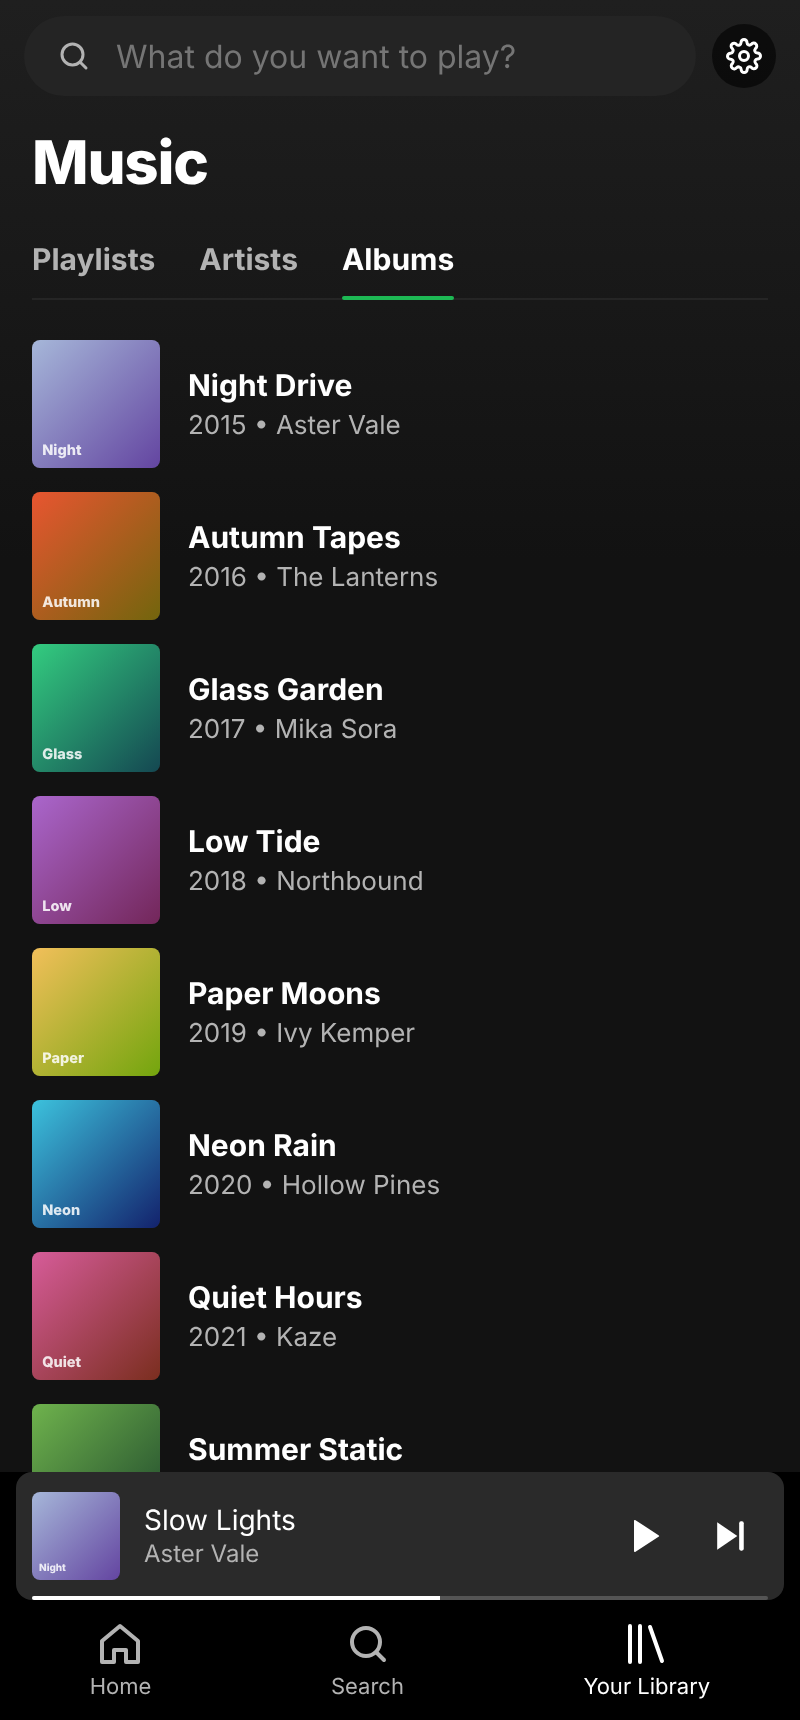
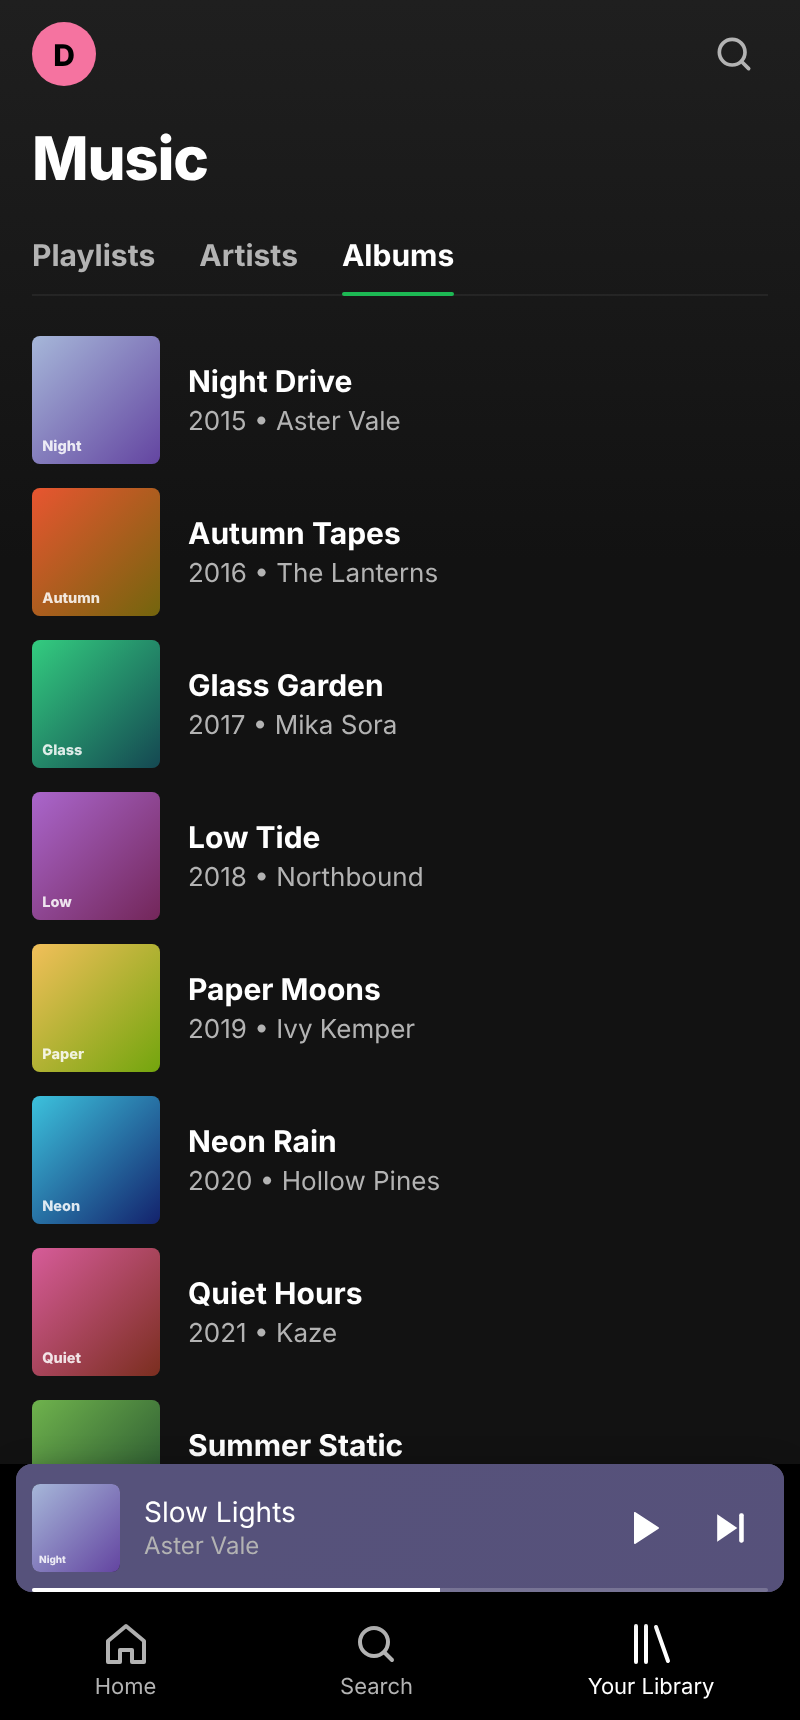
Cleaner, more comfortable phone layout; Search browse tiles
Phone: no search field outside Search (account button on Home/Library, back button and
the page title elsewhere), two-line Home shortcuts, bigger shelf covers, press feedback,
mini player tinted with the cover, tab bar fade, icon-only playlist sort, a quieter
current-lyric line and Settings controls that wrap under their labels. Search opens with
"Browse your library" tiles on all layouts; Language is a regular settings row.

Claude-Session: https://claude.ai/code/session_012YFM9VBkWfKEaaza8uU8t3

diff --git a/ui/src/styles.css b/ui/src/styles.css
@@ -712,3 +712,69 @@ body.resizing, body.resizing * { cursor: col-resize !important; user-select: non
 .lyrics-panel .lp-body { flex: 1; min-height: 0; }
 .lyrics-panel .lyrics { padding: 24px 16px 40%; mask-image: linear-gradient(transparent, #000 8%, #000 85%, transparent); }
 .lyrics-panel .lyrics .line { font-size: 1.25rem; margin-bottom: 14px; }
+
+/* ---- Search: "Browse your library" tiles ------------------------------------------------------ */
+.browse-tiles { display: grid; grid-template-columns: repeat(auto-fill, minmax(180px, 1fr)); gap: 16px; margin-top: 8px; }
+.browse-tile { position: relative; aspect-ratio: 1.7; border-radius: 8px; overflow: hidden; padding: 14px 16px; display: flex; align-items: flex-start; text-align: left; color: #fff; font-weight: 800; font-size: 1.125rem; line-height: 1.2; transition: transform 0.15s ease-out, filter 0.15s; }
+.browse-tile:hover, .browse-tile:focus-visible { transform: scale(1.02); filter: brightness(1.08); }
+.bt-icon { position: absolute; right: -4px; bottom: -6px; transform: rotate(22deg); opacity: 0.9; filter: drop-shadow(0 4px 10px #0006); }
+.bt-icon svg { width: 64px; height: 64px; }
+
+/* ---- phone polish (Spotify mobile proportions) -------------------------------------------------- */
+@media (max-width: 760px) {
+  button, [role="button"], a { -webkit-tap-highlight-color: transparent; }
+
+  /* Top bar: account button or back, the page title once scrolled; no search field outside Search. */
+  .topbar.phone-bar { gap: 12px; padding: 10px 16px; min-height: 52px; }
+  .avatar-btn { width: 32px; height: 32px; border-radius: 50%; flex: none; display: grid; place-items: center; background: #f573a0; color: #000; font-weight: 800; font-size: 0.9375rem; }
+  .phone-title { min-width: 0; font-weight: 800; font-size: 1rem; white-space: nowrap; overflow: hidden; text-overflow: ellipsis; animation: om-fade 0.15s ease-out; }
+  .phone-bar .round-btn { width: 34px; height: 34px; background: #0008; }
+  /* Search keeps only its field: Settings is the account button on Home and Your Library. */
+  .topbar:not(.phone-bar) .round-btn { display: none; }
+  .browse-tiles { margin-bottom: 8px; }
+  .page > h2 { margin-top: 24px; }
+
+  /* Home: two-line shortcut titles instead of "Road t…", bigger shelf cards (about 2.3 on screen). */
+  .greeting { font-size: 1.5rem; margin: 4px 0 14px; }
+  .shortcuts { gap: 8px; }
+  .shortcut { height: 56px; border-radius: 6px; gap: 10px; background: #ffffff17; }
+  .shortcut .art { width: 56px; height: 56px; }
+  .shortcut .name { white-space: normal; display: -webkit-box; -webkit-line-clamp: 2; -webkit-box-orient: vertical; font-size: 0.8125rem; line-height: 1.25; padding-right: 8px; }
+  .shelf { margin-top: 20px; }
+  .shelf-row { grid-auto-columns: min(40vw, 168px); margin: 0 -8px; }
+  .card { padding: 8px; }
+  .card-title { font-size: 0.875rem; margin-bottom: 2px; }
+  .card-sub { font-size: 0.75rem; }
+
+  /* Touch feedback in place of hover. */
+  .card, .shortcut, .lib-row, .tl-row, .browse-tile, .ep-row { transition: transform 0.12s ease-out, opacity 0.12s; }
+  .card:active, .shortcut:active, .lib-row:active, .tl-row:active, .browse-tile:active { transform: scale(0.97); opacity: 0.85; }
+  .card:hover, .shortcut:hover { background: transparent; }
+  .shortcut:hover { background: #ffffff17; }
+
+  /* Mini player tinted with the cover's colour, softer bar behind the tabs. */
+  .playerbar { isolation: isolate; overflow: hidden; background: #2a2a2a; box-shadow: 0 6px 18px #0007; }
+  .playerbar::before { content: ""; position: absolute; inset: 0; z-index: -2; background: var(--pb-wash, none) center / 4000% no-repeat; }
+  .playerbar::after { content: ""; position: absolute; inset: 0; z-index: -1; background: #00000059; }
+  .mobile-tabs { padding-top: 10px; background: linear-gradient(#0000, #000000eb 40%); }
+  .mobile-tabs button { min-width: 72px; }
+
+  /* Lists: comfortable rows, quieter overflow buttons. */
+  .tl-row { min-height: 56px; }
+  .tl-dur .more { opacity: 0.7; }
+
+  /* Playlist actions: the sort button is just its icon here. */
+  .sort-btn > span { display: none; }
+
+  /* Song screen: the current lyric line is a hint, not a second title. */
+  .pp-line { margin: 18px 0 4px; font-size: 0.875rem; font-weight: 600; color: #ffffffb3; }
+
+  /* Settings: controls drop under their label instead of squeezing it. */
+  .setting { flex-wrap: wrap; gap: 8px 16px; }
+  .setting > .grow { flex: 1 1 220px; }
+  .settings section { margin: 24px 0; }
+
+  .browse-tiles { grid-template-columns: 1fr 1fr; gap: 12px; }
+  .browse-tile { font-size: 1rem; aspect-ratio: 1.75; }
+  .bt-icon svg { width: 52px; height: 52px; }
+}

diff --git a/ui/src/pages/Browse.tsx b/ui/src/pages/Browse.tsx
@@ -370,12 +370,42 @@ export function Search({ q }: { q: string }) {
   );
 }
 
+/** Search with nothing typed: Spotify's colourful "Browse all" tiles, here for your library. */
 function BrowseEmpty() {
   const t = useT();
+  const caps = useApp((s) => s.info?.capabilities);
+  const pls = useApp((s) => s.library?.playlists);
+  const liked = pls?.find((p) => /^yt:(VL)?LM$/.test(p.id));
+  const tiles: { label: string; color: string; go: () => void; icon: React.ReactNode }[] = [
+    ...(liked ? [{ label: t("likedSongs"), color: "#5038a0", go: () => navigate({ name: "playlist", id: liked.id }), icon: <I.IHeartFill size={36} /> }] : []),
+    { label: t("recentlyPlayed"), color: "#1e3264", go: () => navigate({ name: "library", tab: "recent" }), icon: <I.IClock size={36} /> },
+    { label: t("playlists"), color: "#8d67ab", go: () => navigate({ name: "library", tab: "playlists" }), icon: <I.IQueue size={36} /> },
+    { label: t("albums"), color: "#e8115b", go: () => navigate({ name: "library", tab: "albums" }), icon: <I.IMusic size={36} /> },
+    { label: t("artists"), color: "#148a08", go: () => navigate({ name: "library", tab: "artists" }), icon: <I.IMic size={36} /> },
+    ...(caps?.podcasts
+      ? [
+          { label: t("podcasts"), color: "#006450", go: () => navigate({ name: "library", tab: "podcasts" }), icon: <I.IBookmark size={36} /> },
+          { label: t("yourEpisodes"), color: "#477d95", go: () => navigate({ name: "episodes" }), icon: <I.IPlay size={36} /> },
+        ]
+      : []),
+    { label: t("localFiles"), color: "#ba5d07", go: () => navigate({ name: "local" }), icon: <I.IFolder size={36} /> },
+    ...(caps?.downloads ? [{ label: t("downloads"), color: "#27856a", go: () => navigate({ name: "downloads" }), icon: <I.IDownload size={36} /> }] : []),
+  ];
   return (
     <div className="page">
       <h1>{t("search")}</h1>
       <p className="muted">{t("searchHint")}</p>
+      <h2>{t("browseAll")}</h2>
+      <div className="browse-tiles">
+        {tiles.map((x) => (
+          <button key={x.label} className="browse-tile" style={{ background: x.color }} onClick={x.go}>
+            <span>{x.label}</span>
+            <span className="bt-icon" aria-hidden="true">
+              {x.icon}
+            </span>
+          </button>
+        ))}
+      </div>
     </div>
   );
 }

diff --git a/ui/src/components/TopBar.tsx b/ui/src/components/TopBar.tsx
@@ -3,6 +3,7 @@ import { useT } from "../i18n";
 import { openProfilePicker, useApp } from "../store/app";
 import { back, forward, navigate, useUi } from "../store/ui";
 import * as I from "./Icons";
+import { usePhoneLayout } from "./common";
 import { cls } from "../util";
 
 export function TopBar() {
@@ -23,6 +24,35 @@ export function TopBar() {
   const scrolled = useUi((s) => s.scrolled);
   const pageTitle = useUi((s) => s.pageTitle);
   const showTitle = scrolled === 2 && pageTitle && cur.name !== "search";
+  const phone = usePhoneLayout();
+
+  // Phone (Spotify mobile): no search field outside Search. Home and Your Library show the
+  // account button (opens Settings); other pages a back button and, once scrolled, their title.
+  if (phone && cur.name !== "search") {
+    const root = cur.name === "home" || cur.name === "library";
+    const initial = (auth?.account ?? "").trim().slice(0, 1).toUpperCase() || "♪";
+    return (
+      <header className={cls("topbar phone-bar", scrolled > 0 && "solid")}>
+        {root ? (
+          <button className="avatar-btn" aria-label={t("settings")} title={t("settings")} onClick={() => navigate({ name: "settings" })}>
+            {initial}
+          </button>
+        ) : (
+          <button className="round-btn" aria-label={t("back")} title={t("back")} disabled={pos === 0} onClick={back}>
+            <I.IBack size={18} />
+          </button>
+        )}
+        {showTitle && <span className="phone-title">{pageTitle.title}</span>}
+        <span className="grow" />
+        {!online && <span className="offline-pill" role="status">{t("offlineShort")}</span>}
+        {cur.name === "library" && (
+          <button className="icon-btn" aria-label={t("search")} title={t("search")} onClick={() => navigate({ name: "search" })}>
+            <I.ISearch size={22} />
+          </button>
+        )}
+      </header>
+    );
+  }
 
   return (
     <header className={cls("topbar", scrolled > 0 && "solid")}>

diff --git a/ui/src/pages/Manage.tsx b/ui/src/pages/Manage.tsx
@@ -317,15 +317,21 @@ export function SettingsPage() {
 
       <section>
         <h2>{t("language")}</h2>
-        <Select
-          label={t("language")}
-          value={s.language}
-          onChange={(v) => s.set({ language: v })}
-          options={[
-            { value: "en", label: "English" },
-            { value: "ja", label: "日本語" },
-          ]}
-        />
+        <div className="setting">
+          <div className="grow">
+            <div>{t("appLanguage")}</div>
+            <div className="muted small">{t("appLanguageHint")}</div>
+          </div>
+          <Select
+            label={t("language")}
+            value={s.language}
+            onChange={(v) => s.set({ language: v })}
+            options={[
+              { value: "en", label: "English" },
+              { value: "ja", label: "日本語" },
+            ]}
+          />
+        </div>
         <label className="setting">
           <div className="grow">
             <div>{t("japaneseDisplay")}</div>

diff --git a/ui/src/components/PlayerBar.tsx b/ui/src/components/PlayerBar.tsx
@@ -1,7 +1,7 @@
 import { useEffect, useRef, useState } from "react";
 import { listen } from "@tauri-apps/api/event";
 import { sleepSubmenu, trackMenu, useSleep } from "../actions";
-import { api, inTauri } from "../api";
+import { api, artUrl, inTauri } from "../api";
 import { useT } from "../i18n";
 import * as P from "../player/engine";
 import { usePlayer } from "../player/engine";
@@ -162,6 +162,8 @@ export function PlayerBar() {
     <footer
       className="playerbar"
       aria-label={t("nowPlaying")}
+      // Phone mini player: tinted with the cover's colour (a tiny cover stretched into a wash).
+      style={tr?.artwork ? ({ ["--pb-wash" as string]: `url("${artUrl(tr.artwork, 60)}")` } as React.CSSProperties) : undefined}
       // Phone: the whole mini player opens the song screen, except its own buttons.
       onClick={(e) => tr && isTouch() && !(e.target as HTMLElement).closest("button:not(.pb-art):not(.link), input") && useUi.setState({ fullscreen: true })}
     >

diff --git a/ui/src/i18n.ts b/ui/src/i18n.ts
@@ -350,6 +350,9 @@ const en = {
   offlineShort: "Offline",
   music: "Music",
   likedSongs: "Liked Songs",
+  browseAll: "Browse your library",
+  appLanguage: "App language",
+  appLanguageHint: "Menus and labels; translated lyrics and titles follow it too.",
   savedIn: "Saved in",
   done: "Done",
   youtubePlaylists: "Your YouTube playlists",
@@ -725,6 +728,9 @@ const ja: Record<Key, string> = {
   offlineShort: "オフライン",
   music: "音楽",
   likedSongs: "お気に入りの曲",
+  browseAll: "ライブラリを見る",
+  appLanguage: "表示言語",
+  appLanguageHint: "メニューと表示に使います。歌詞やタイトルの翻訳もこの言語になります。",
   savedIn: "保存先",
   done: "完了",
   youtubePlaylists: "YouTubeのプレイリスト",

diff --git a/RELEASE_NOTES.md b/RELEASE_NOTES.md
@@ -1,6 +1,7 @@
 # OpenMusic 1.0.7
 
-Music keeps playing when you leave the app on Android, and the artwork cache takes far less space.
+Music keeps playing when you leave the app on Android, a cleaner phone layout, and the artwork
+cache takes far less space.
 
 ## New in 1.0.7
 - **Android: leaving the app no longer pauses the song.** Swiping home or to another app paused
@@ -8,6 +9,18 @@ Music keeps playing when you leave the app on Android, and the artwork cache tak
   aren't on screen). The app now keeps its player running in the background and picks a song
   back up if it was paused on the way out. Pausing from the notification, headphones or the app
   still works as before.
+- **Cleaner, more comfortable phone layout**:
+  - The top bar no longer shows a search field on every page. Home and Your Library show your
+    account button (Settings), and other pages a back button, plus the page's name once you scroll.
+  - Home shortcuts show two-line titles instead of cutting names off.
+  - Shelves use bigger covers.
+  - Taps give a small press effect.
+  - The mini player takes on the colour of the song's cover.
+  - The tab bar fades over the content.
+  - Search opens with colourful "Browse your library" tiles (also on desktop).
+  - The playlist sort button is icon-only on phones.
+  - The current lyric line on the song screen is quieter.
+  - Settings controls move under their labels instead of squeezing them.
 - **Smaller artwork cache**: covers are now shrunk to the size they're shown at and stored as
   compact JPEGs (usually many times smaller than before), YouTube Music art is downloaded at that size,
   and each cover is kept at only a few sizes. The cache limit is now 256 MB. The old cache of
